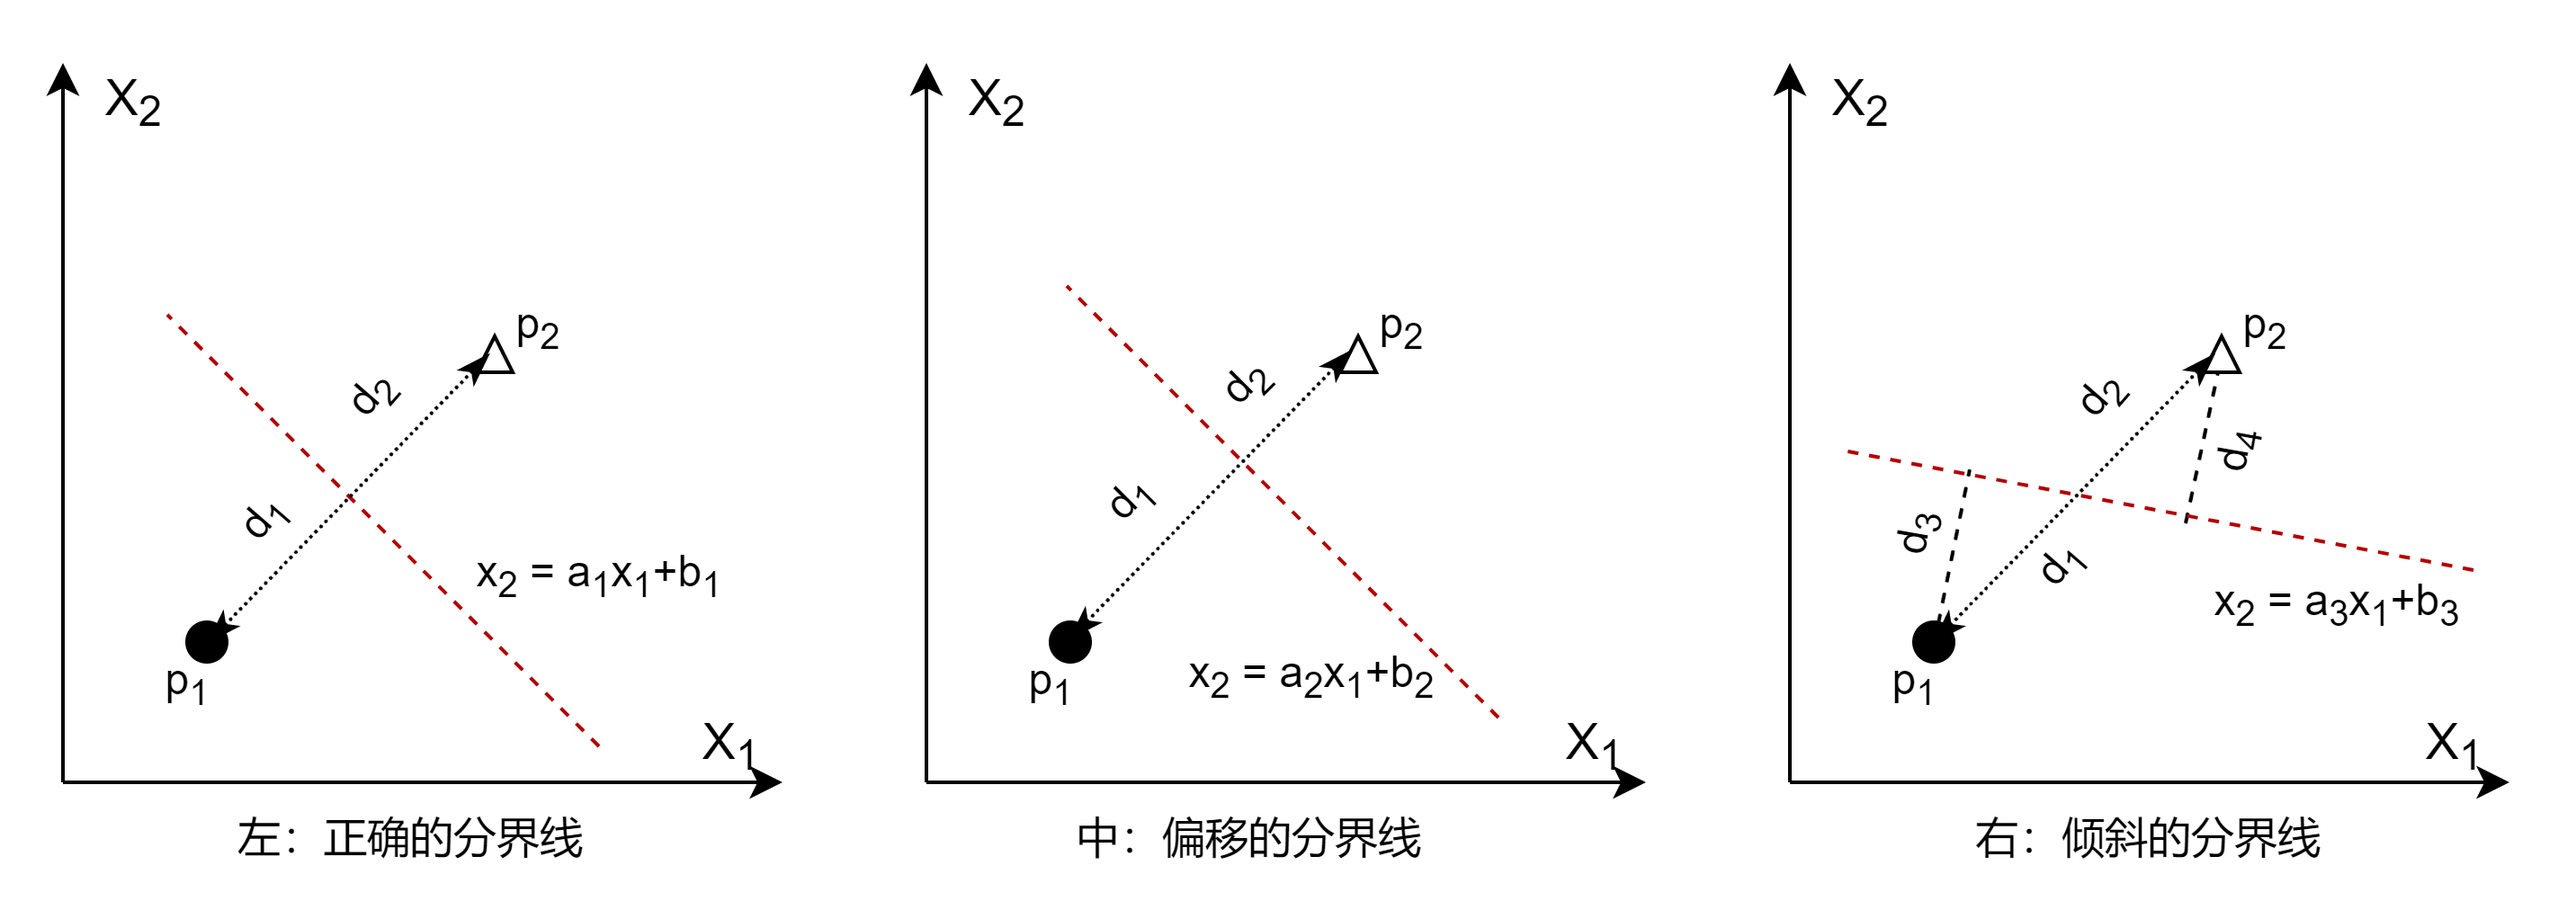
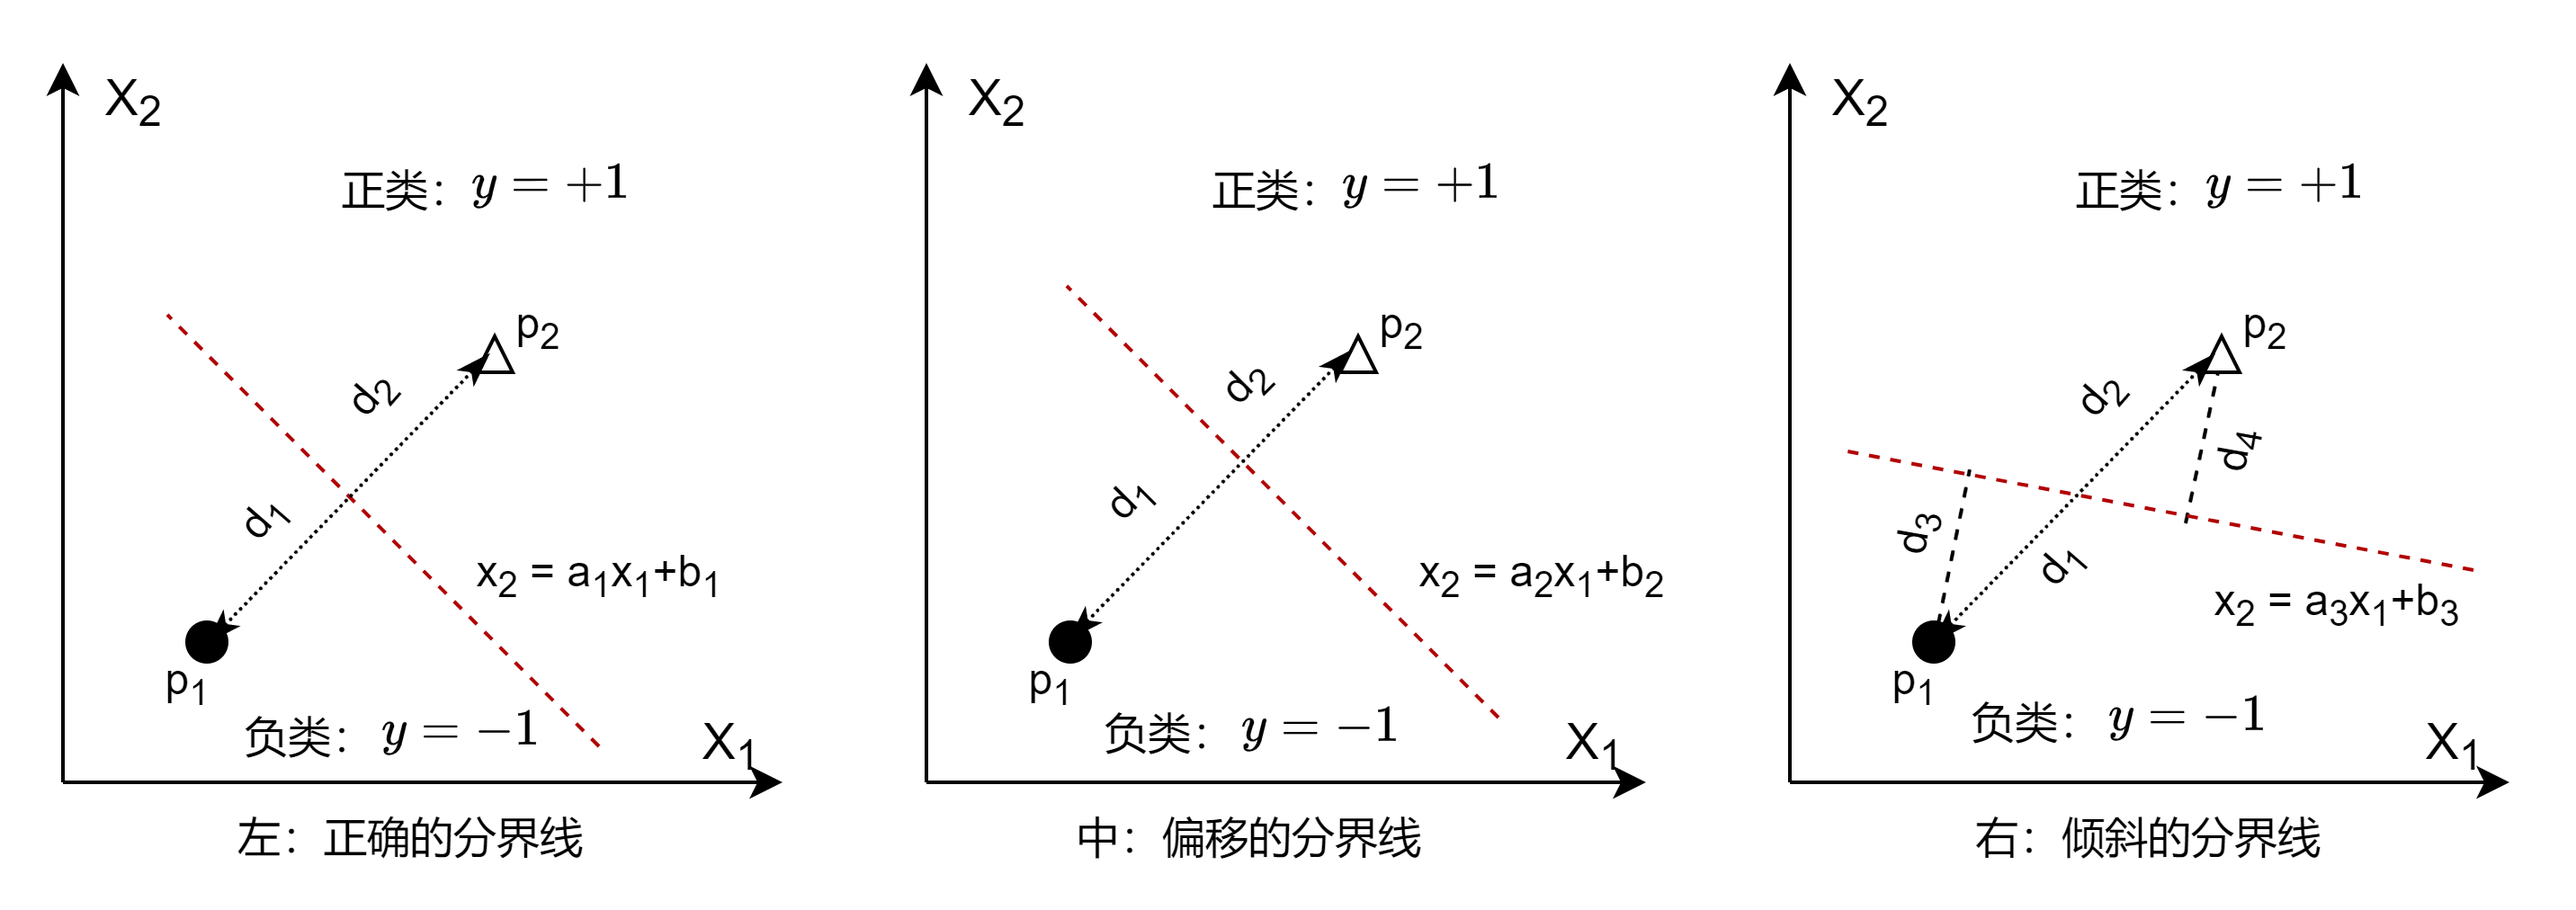
update

diff --git a/基础教程/A4-经典机器学习算法（更新中）/第5步 基于核的算法/svm.md b/基础教程/A4-经典机器学习算法（更新中）/第5步 基于核的算法/svm.md
@@ -71,24 +71,29 @@ $$
 
 三个图中，虽然分界线都可以正确地分界了两个样本点，但只有左图是正确的，在用这个分类模型做预测时的鲁棒性最强，误差最小。
 
-从这几个例子可以看出来，分类与回归不同：
-- 在回归中，尽量让均方差最小，得到的效果是每个样本都想把回归线尽量拉向自己，最终的回归结果是**所有样本点**的“引力”的均衡；
-- 而在分类中，尽量让分界距离最大，得到的效果是每一类样本都想把分界线推向对方，最终的分类结果是两类样本中**支持点**的“推力”的均衡。
-
-
 用数学语言描述如下：
 
 如果分界线方程是：
 
 $$
-x_2 = ax_1+b \tag{2}
+Ax_1 + Bx_2+ C=0 \tag{2}
 $$
+
+或者是其等价形式：
+
+$$
+x_2 = ax_1 + b \tag{4}
+$$
+与公式 3 相比，$a = -\frac{A}{B}，b = -\frac{C}{B}$。
 
 点到直线的距离的方程为：
 
 $$
 d = \frac{|Ax_1+Bx_2+C|}{\sqrt{A^2+B^2}} \tag{3}
 $$
+
+
+
 
 而两类样本的支持点到分界线的**垂直距离**分别为 $d_1、d_2$：
 
@@ -119,16 +124,23 @@ $$
 
 用几何概念来解释，就是负类在分界线的下方，正类在分界线的上方。当然，这里的正类负类是人为指定的，也可以约定相反的符号，这样正类就会在分界线的下方，这会造成理解上的障碍，但是并不妨碍最后的推导结果正确。
 
-### 分类间隔
 
-<img src="./images/4.png" />
+从这几个例子可以看出来，分类与回归不同：
+- 在回归中，**尽量让回归距离最小**，得到的效果是每个样本都想把回归线尽量拉向自己，最终的回归结果是**所有样本点**的“引力”的均衡；
+- 而在分类中，**尽量让分界距离最大**，得到的效果是每一类样本都想把分界线推向对方，最终的分类结果是两类样本中**支持点**的“推力”的均衡。
+
+用图 4 来解释。
+
+<img src="./images/3-4.png" />
+
 <center>图 4 一条穿过两点的直线</center>
 
-在图 4 中的左子图中，$d_1、d_2$ 具有的几何意义很明确，但是需要用数学公式来表达，那就是点到直线的距离。
+分界线的确定是为了“照顾”距离对方样本较近的点，如 $p_1、p_2$。相对来说，距离分界线较远的点，如 $p_4、p_6$ 在分类的准确性上更有保证。所以每一类样本都希望分界线距离自己越远越好。
 
 
+### 分类间隔
 
-其中，分界线的直线方程为 $Ax_1+Bx_2+C=0$（可以通过公式 x 变换得到），如果用向量形式表示，可以转化为：
+分界线的直线方程为 $Ax_1+Bx_2+C=0$，如果用向量形式表示，可以转化为：
 
 $$
 \begin{pmatrix}
@@ -142,13 +154,18 @@ $$
 +C=\boldsymbol{w} \boldsymbol{x}+C=0
 $$
 
-令：$\boldsymbol{w} = (A \quad B)，\boldsymbol{x} = (x_1 \quad x_2)^T$，则：
+令：$\boldsymbol{w} = (A \quad B)，\boldsymbol{x} = (x_1 \quad x_2)^T$，则公式 3 可以写成：
 
 $$
 d = \frac{\boldsymbol{w} \boldsymbol{x}+C}{\sqrt{w_1^2 + w_2^2}}=\frac{\boldsymbol{w}\boldsymbol{x}+C}{||\boldsymbol{w}||}
 $$
 
-其中，$||\boldsymbol{w}||$ 是 $||\boldsymbol{w}||_2^2$ 的简写形式，表示 $\boldsymbol{w}$ 的二范数，即 $\boldsymbol{w}$ 中的各元素平方和再开方。
+其中，$||\boldsymbol{w}||$ 是 $||\boldsymbol{w}||_2^2$ 的简写形式，表示 $\boldsymbol{w}$ 的二范数 $L_2$，即 $\boldsymbol{w}$ 中的各元素平方和再开方。
+
+<img src="./images/4.png" />
+<center>图 4 一条穿过两点的直线</center>
+
+
 
 
 
